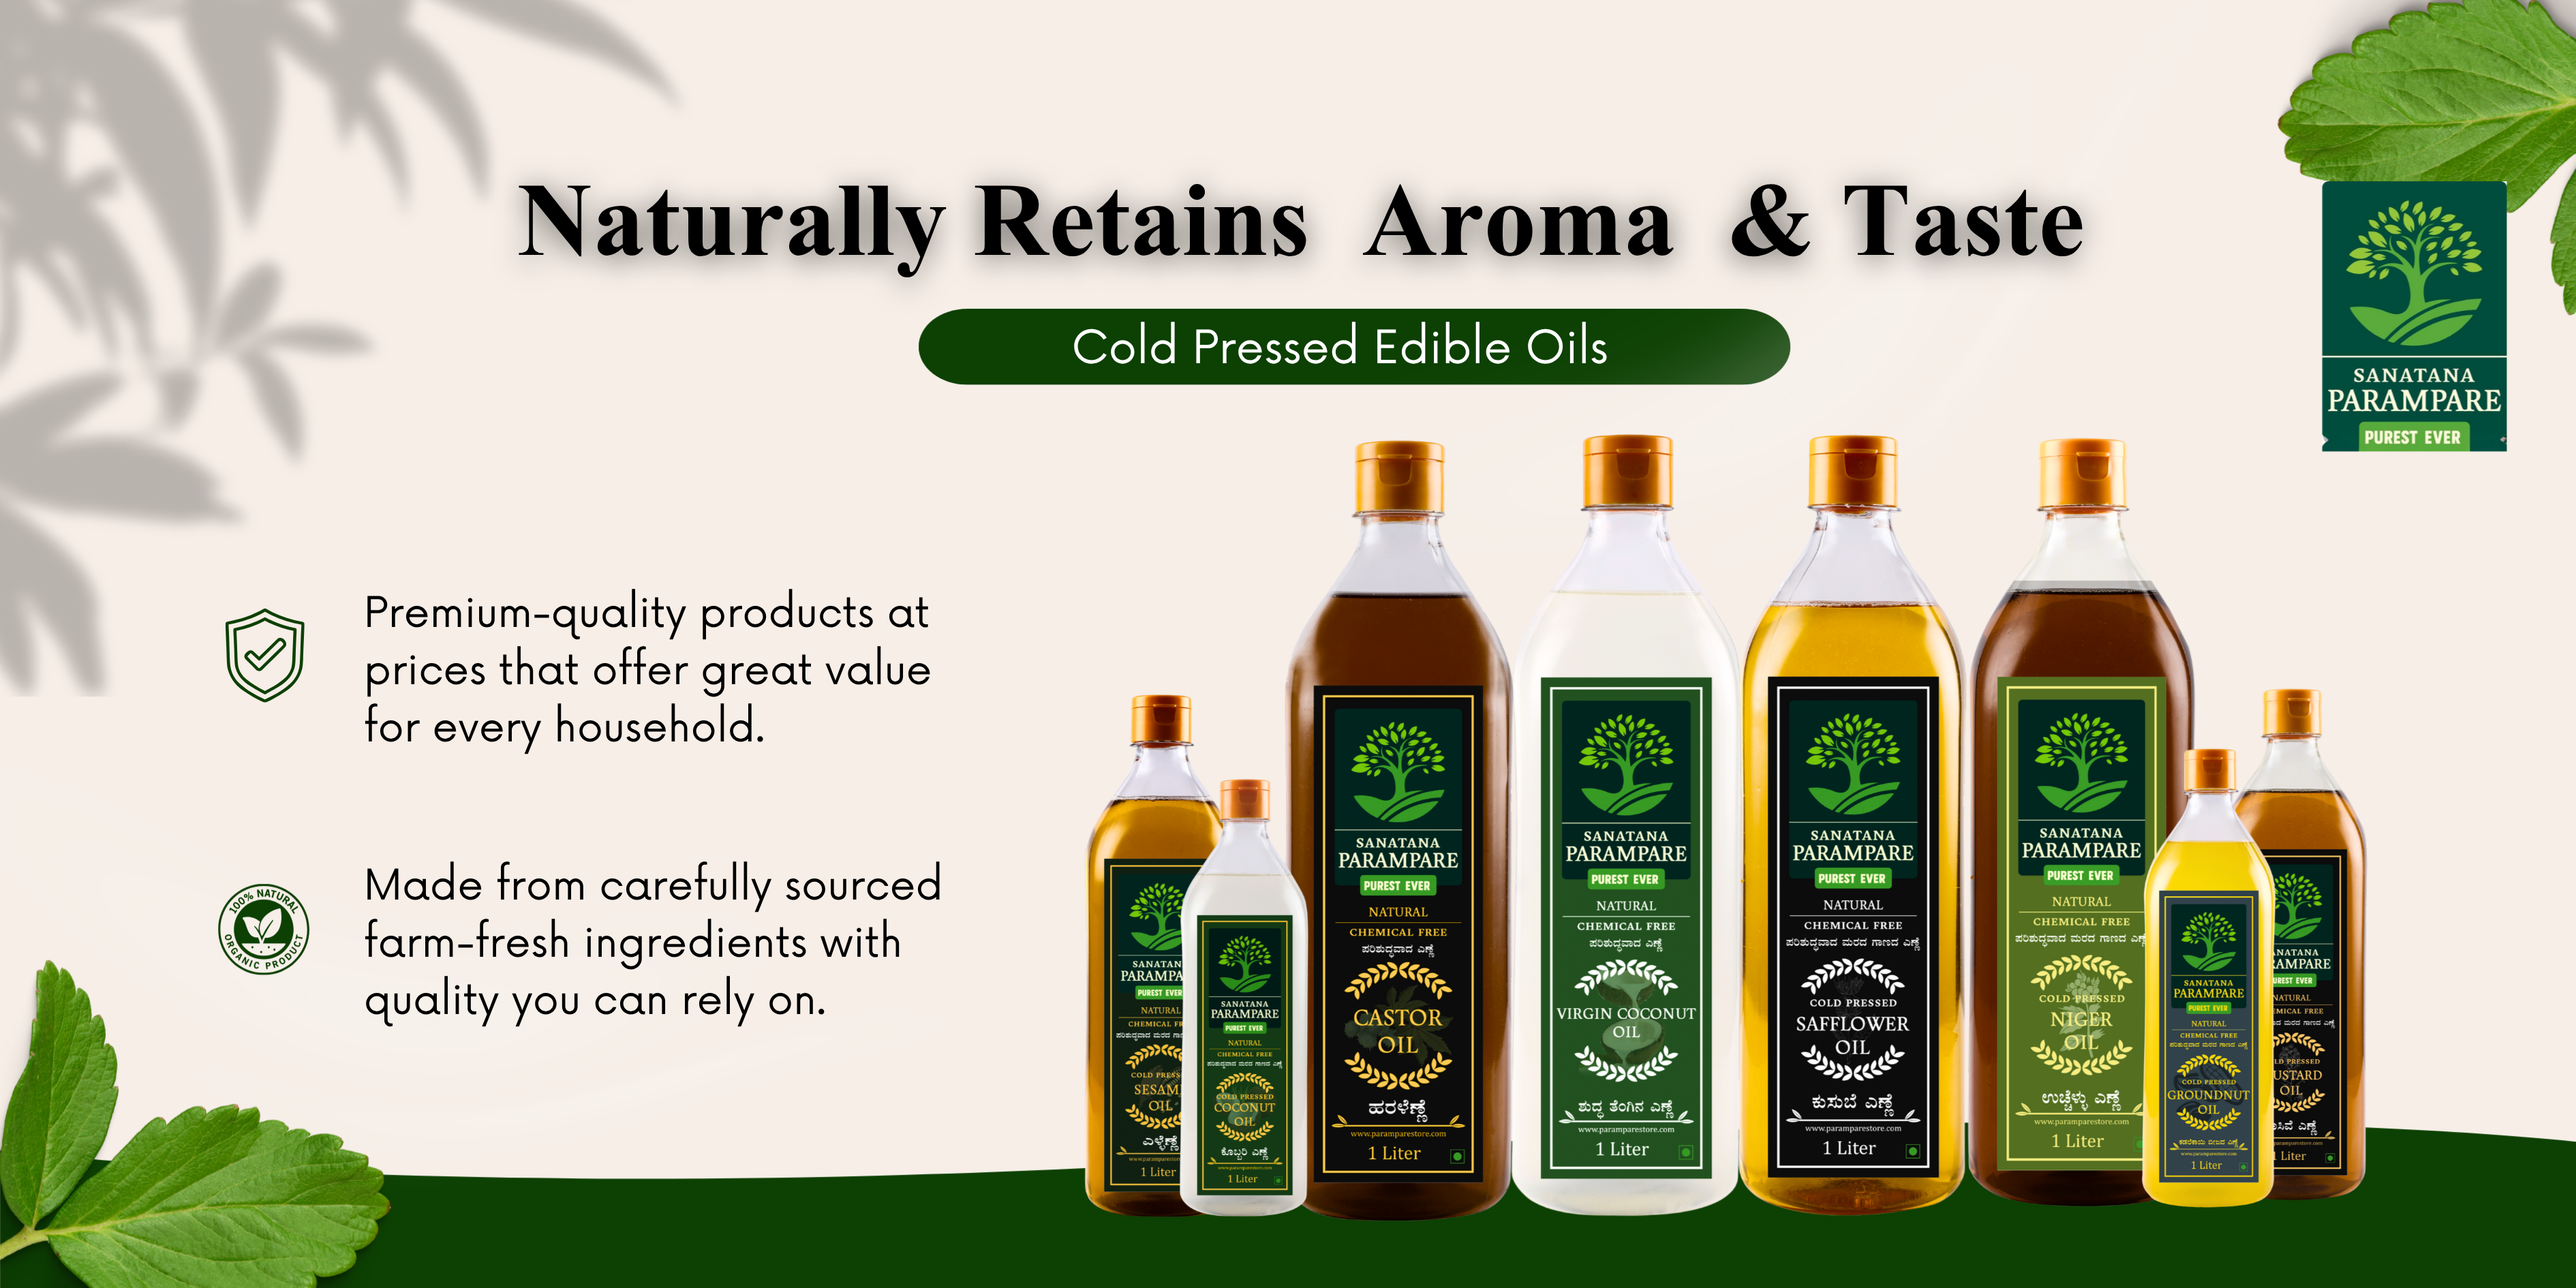
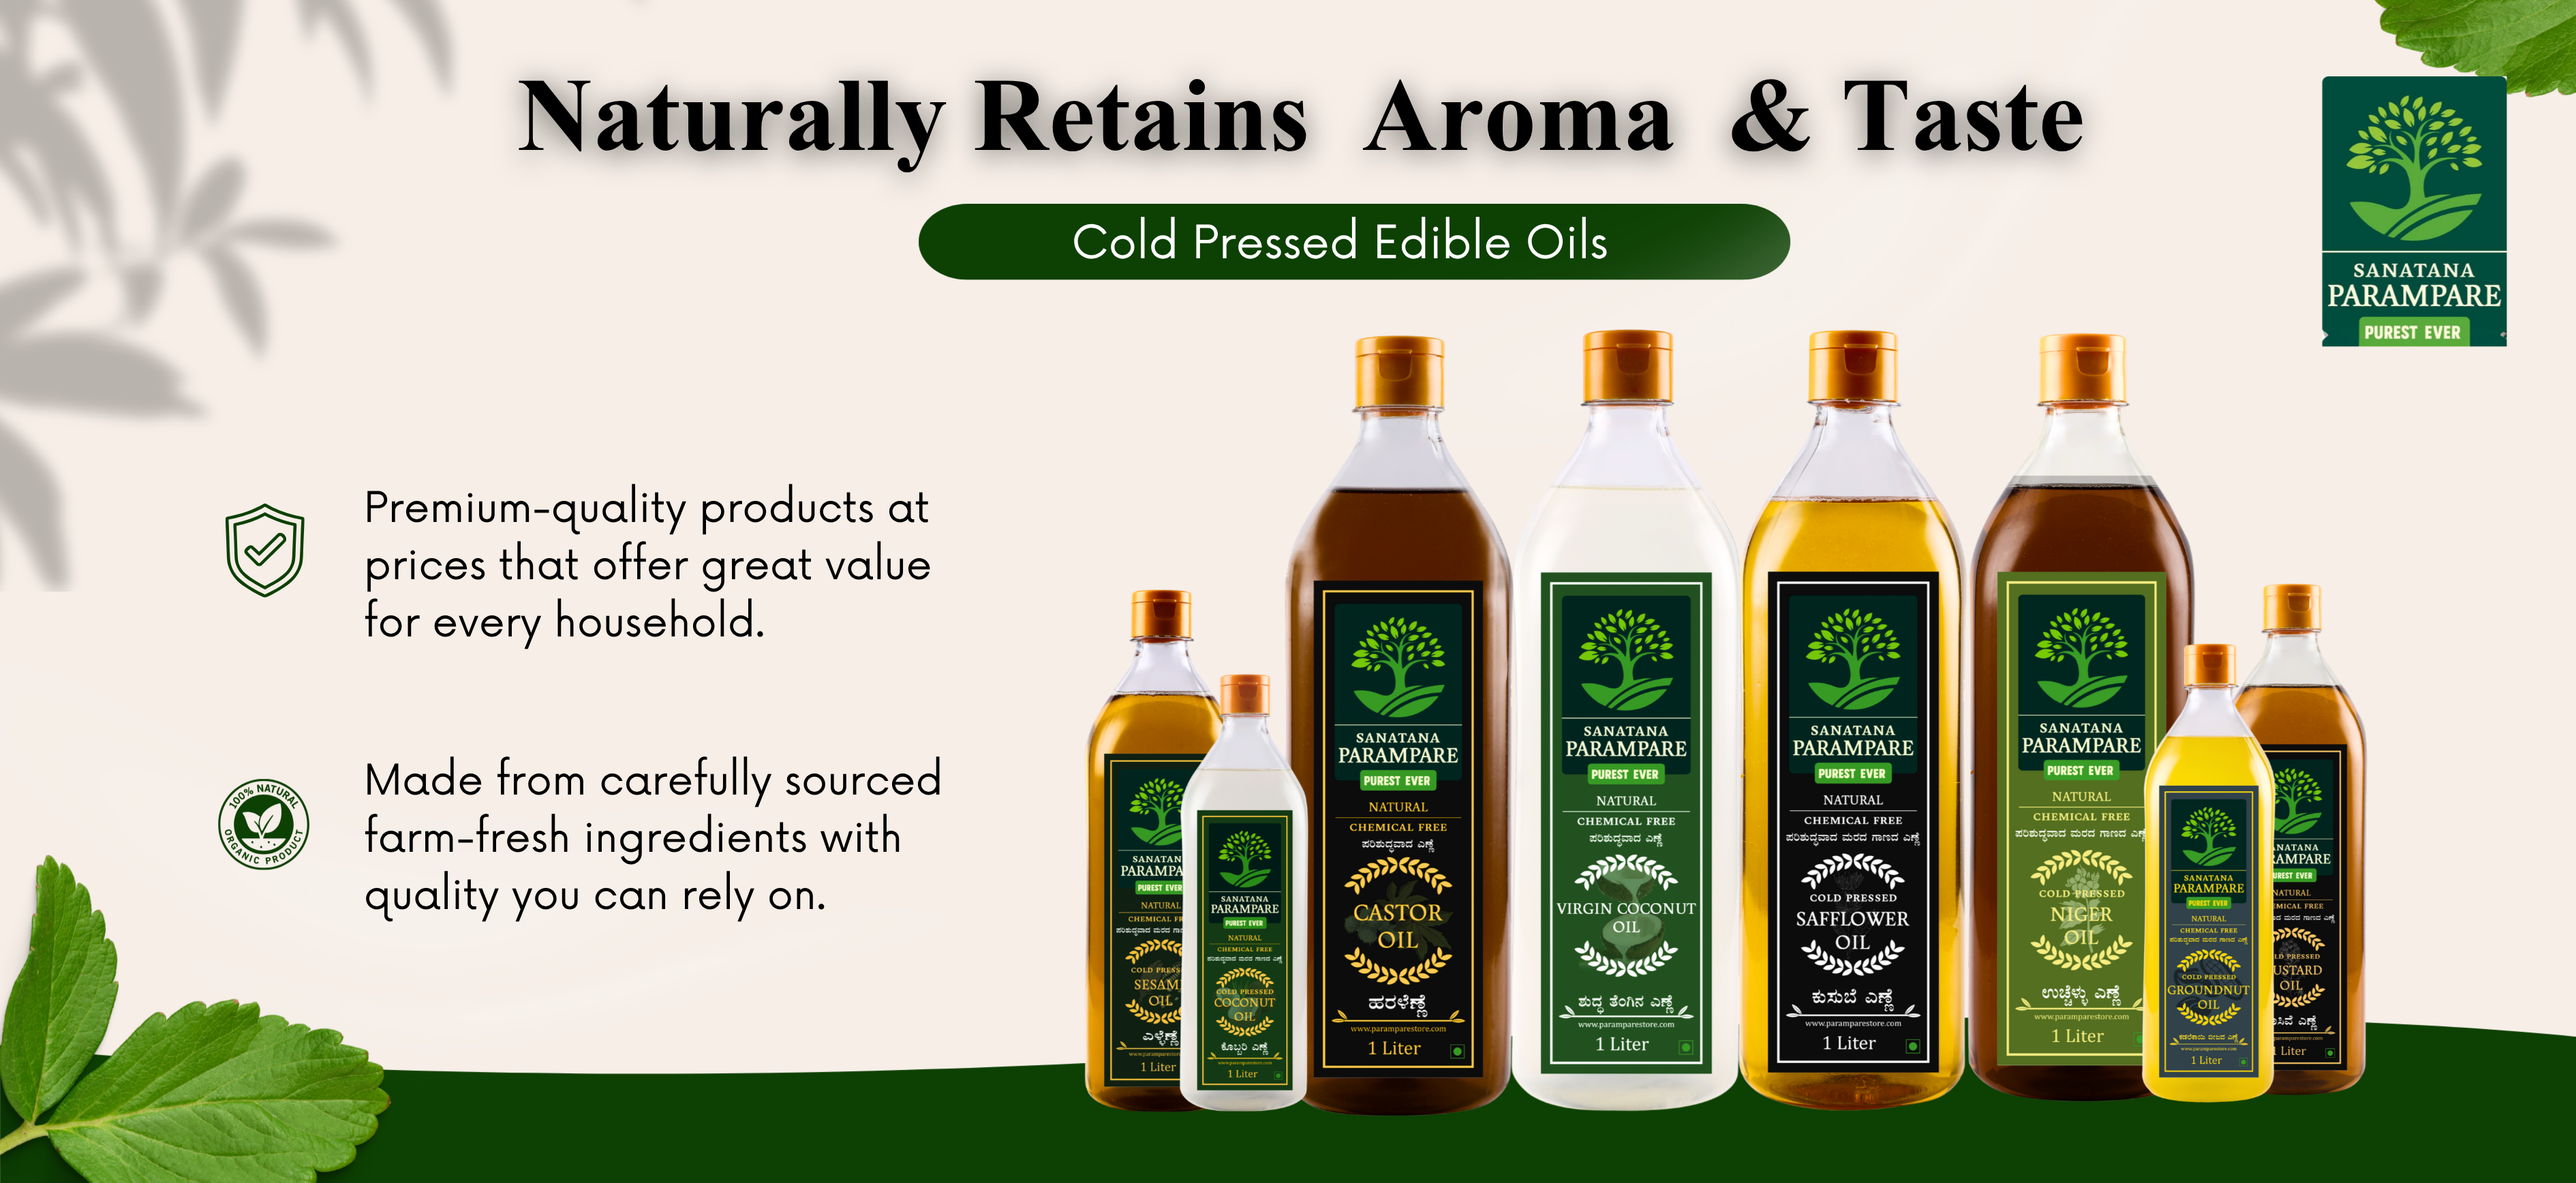
fix desktop and mobile images

Changed region(s): [[0.0, 0.0, 1.0, 0.9954], [0.8741, 0.0, 1.0, 0.3733], [0.0624, 0.6532, 0.3746, 0.8088]]

diff --git a/frontend/src/pages/homepage/components/HeroSection.jsx b/frontend/src/pages/homepage/components/HeroSection.jsx
@@ -1,11 +1,11 @@
 import React, { useState, useEffect } from 'react';
 
 const desktopImages = [
-  '/assets/banner/1.jpg',
-  '/assets/banner/2.jpg',
-  '/assets/banner/3.jpg',
-  '/assets/banner/4.jpg',
-  '/assets/banner/5.jpg',
+  '/assets/banner/1.png',
+  '/assets/banner/2.png',
+  '/assets/banner/3.png',
+  '/assets/banner/4.png',
+  '/assets/banner/5.png',
 ];
 
 const mobileImages = [
@@ -33,12 +33,12 @@ function useIsMobile() {
 // ✅ DESKTOP HERO SECTION
 const DesktopHero = ({ current, setCurrent, nextSlide, prevSlide }) => {
     return (
-        <section className="relative w-full h-[103vh] overflow-hidden flex items-center justify-center bg-black">
+        <section className="relative w-full h-[99vh] overflow-hidden flex items-center justify-center bg-black">
             <img
                 src={desktopImages[current]}
                 alt={`Hero Slide ${current + 1}`}
                 className="absolute inset-0 w-full h-full object-cover transition-all duration-1000"
-                style={{ objectPosition: 'center center' }}
+                style={{ objectPosition:  'center 30%'}}
             />
 
             {/* Navigation Arrows */}
@@ -75,12 +75,12 @@ const DesktopHero = ({ current, setCurrent, nextSlide, prevSlide }) => {
 // ✅ MOBILE HERO SECTION
 const MobileHero = ({ current }) => {
     return (
-        <section className="relative w-full h-[100dvh] overflow-hidden flex items-center justify-center bg-black">
+        <section className="relative w-full h-[87vh] overflow-hidden flex items-center justify-center bg-black">
             <img
                 src={mobileImages[current]}
                 alt={`Hero Slide ${current + 1}`}
                 className="absolute inset-0 w-full h-full object-cover transition-all duration-1000"
-                style={{ objectPosition: 'center center' }}
+                style={{ objectPosition: 'center 30%' }}
             />
         </section>
     );
